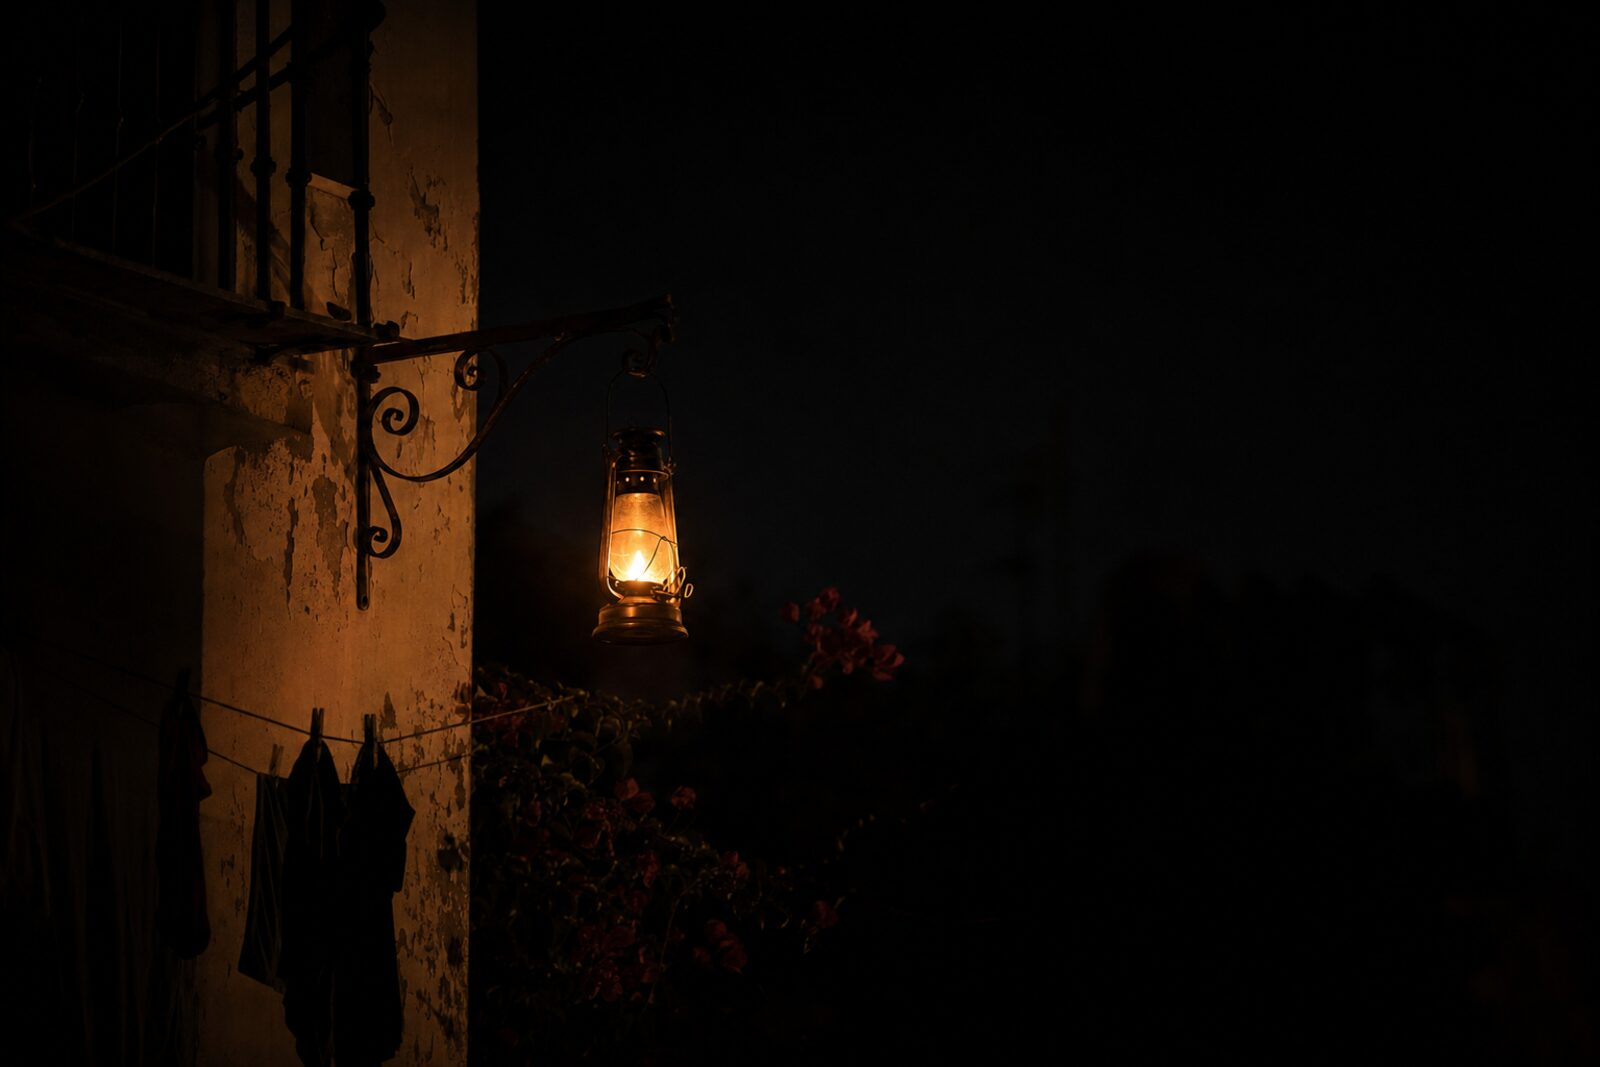
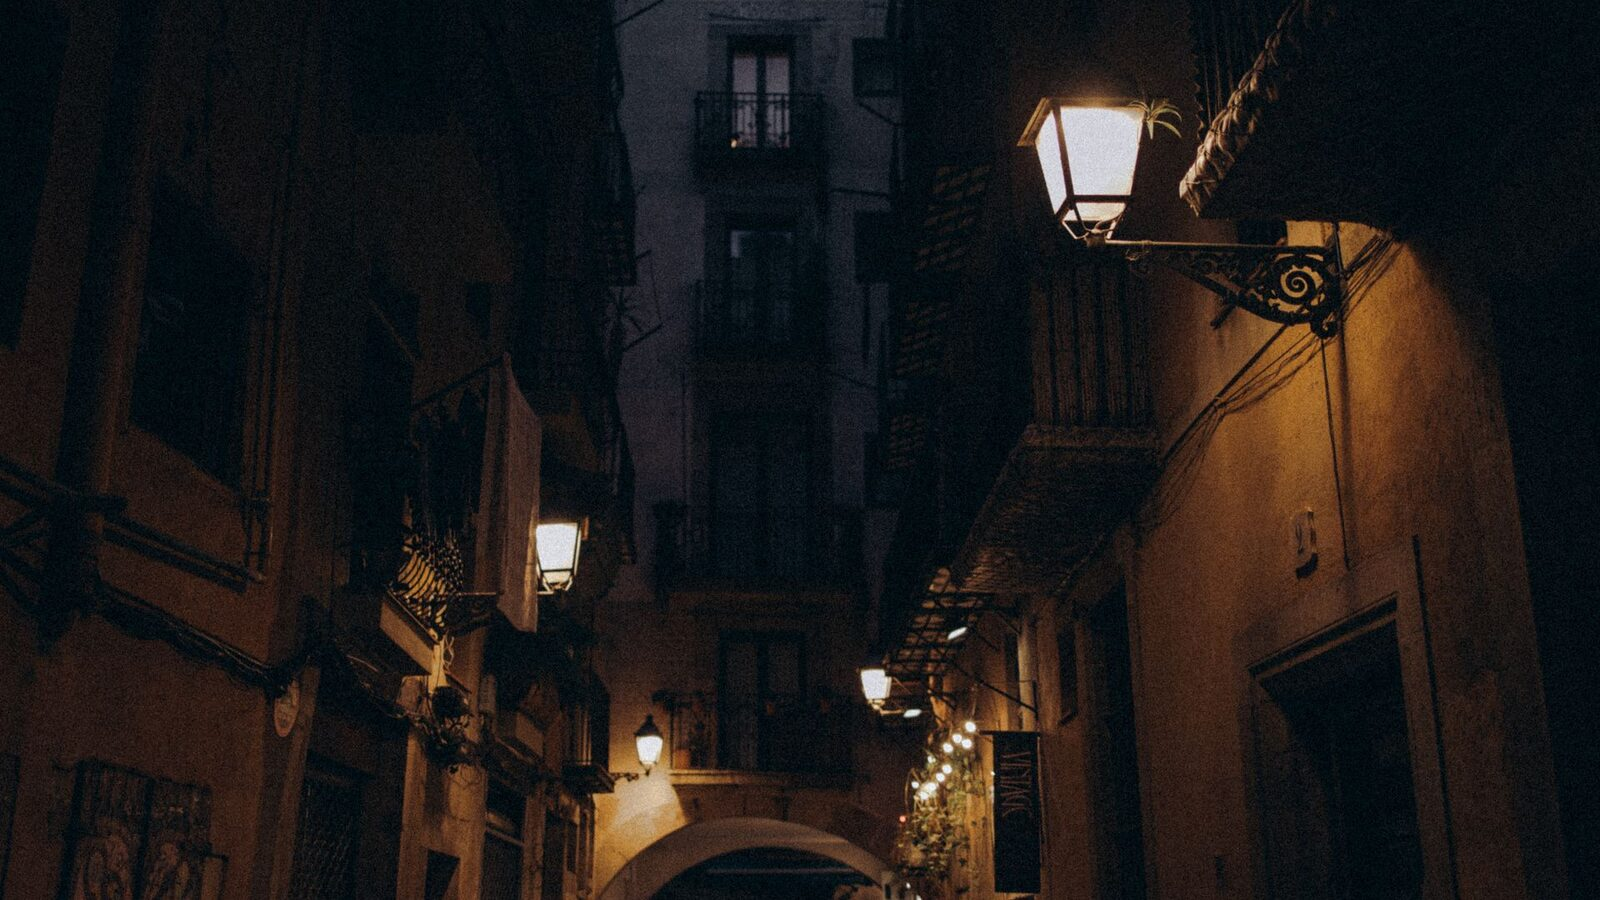
V9: founder letter (Ahmed's story, photo, signature), ember cursor trail, lit-window building footer, real Cairo band photography, mobile clock fix

diff --git a/index.html b/index.html
@@ -29,11 +29,11 @@
 <link rel="preload" as="style" href="https://api.fontshare.com/v2/css?f[]=boska@700,500&f[]=satoshi@300,400,500,700&display=swap" />
 <link rel="preload" as="style" href="https://fonts.googleapis.com/css2?family=JetBrains+Mono:wght@400;500&display=swap" />
 <link href="https://api.fontshare.com/v2/css?f[]=boska@700,500&f[]=satoshi@300,400,500,700&display=swap" rel="stylesheet" />
-<link href="https://fonts.googleapis.com/css2?family=JetBrains+Mono:wght@400;500&display=swap" rel="stylesheet" />
-<link rel="stylesheet" href="css/style.css?v=12" />
-<link rel="stylesheet" href="css/console.css?v=12" />
+<link href="https://fonts.googleapis.com/css2?family=JetBrains+Mono:wght@400;500&family=Caveat:wght@600&display=swap" rel="stylesheet" />
+<link rel="stylesheet" href="css/style.css?v=14" />
+<link rel="stylesheet" href="css/console.css?v=14" />
 <link rel="stylesheet" href="css/media.css?v=12" />
-<link rel="stylesheet" href="css/day.css?v=12" />
+<link rel="stylesheet" href="css/day.css?v=14" />
 <link rel="stylesheet" href="css/hero.css?v=13" />
 <script>
   if (!window.matchMedia('(prefers-reduced-motion: reduce)').matches) {
@@ -553,6 +553,43 @@
   </div>
 </section>
 
+<!-- ══════════ THE STORY · A NOTE FROM THE FOUNDER ══════════ -->
+<section class="letter-ch day" id="letter" data-label="The Story">
+  <div class="wrap">
+    <p class="chapter-no reveal">The Story</p>
+    <div class="letter reveal" role="group" aria-label="A note from Ahmed, founder of SERAYAE">
+      <div class="letter-bar">
+        <span class="letter-lights" aria-hidden="true"><i></i><i></i><i></i></span>
+        <span class="mono letter-name">a note from ahmed</span>
+      </div>
+      <div class="letter-body">
+        <p>I thought the problem was alerts.</p>
+        <p>every app promised the same thing.</p>
+        <p class="letter-list">send an alert.<br />share your location.<br />notify your contacts.</p>
+        <p>and technically, they worked.</p>
+        <p class="letter-list">the notification arrived.<br />the message was delivered.<br />the location was shared.</p>
+        <p>everything worked.</p>
+        <p>except the part that mattered.</p>
+        <p><mark>nobody knew if someone was actually coming.</mark></p>
+        <p>and once you notice that,<br />you start seeing it everywhere.</p>
+        <p class="letter-list">we built infrastructure for communication.<br />we built infrastructure for transportation.<br />we built infrastructure for payments.</p>
+        <p><strong>but we never built infrastructure for response.</strong></p>
+        <p>so we started building it.</p>
+        <p>SERAYAE is our attempt to answer a simple question:</p>
+        <p class="letter-q">when someone needs help,<br />can another human reliably show up?</p>
+        <p>we think that question matters more than any feature we could list here.</p>
+        <p>it&rsquo;s early.</p>
+        <p>but we're working on it.</p>
+      </div>
+      <div class="letter-sig">
+        <img class="letter-face" src="media/photos/founder.jpg" width="80" height="80" loading="lazy" decoding="async" alt="Ahmed, founder of SERAYAE" />
+        <span class="letter-who">Ahmed<br /><em>Founder, SERAYAE</em></span>
+        <span class="letter-hand" aria-hidden="true">— Ahmed</span>
+      </div>
+    </div>
+  </div>
+</section>
+
 <!-- ══════════ SIGNALS FROM THE WAITLIST ══════════ -->
 <section class="voices" id="voices" data-chapter="6" data-label="Signals from the waitlist">
   <div class="wrap">
@@ -672,18 +709,11 @@
     </span>
   </nav>
 
-  <!-- dot-matrix mosaic, built from the same ember/ivory atom as the network -->
+  <!-- the building: SERAYAE spelled in lit windows — every window is someone -->
   <div class="mosaic-row">
-    <span class="mosaic-lantern lit" aria-hidden="true">
-      <svg viewBox="0 0 32 40">
-        <g stroke="currentColor" stroke-width="1.4" fill="none" stroke-linecap="round">
-          <path d="M16 2v4" /><path d="M10 6h12" /><path d="M11 6 8.5 33h15L21 6" /><path d="M8.5 33h15" /><path d="M13 36h6" />
-        </g>
-        <circle cx="16" cy="21" r="4.4" fill="currentColor" />
-      </svg>
-    </span>
-    <div class="mosaic" id="mosaic" role="img" aria-label="SERAYAE"></div>
+    <div class="mosaic" id="mosaic" role="img" aria-label="SERAYAE spelled in lit apartment windows"></div>
   </div>
+  <p class="mono mosaic-cap" aria-hidden="true">every window is someone.</p>
 </footer>
 
 <!-- ══════════ EASTER-EGG MODALS ══════════ -->
@@ -707,15 +737,16 @@
 <script defer src="https://cdn.jsdelivr.net/npm/gsap@3.12.5/dist/gsap.min.js"></script>
 <script defer src="https://cdn.jsdelivr.net/npm/gsap@3.12.5/dist/ScrollTrigger.min.js"></script>
 <script defer src="js/network.js?v=12"></script>
-<script defer src="js/ops.js?v=12"></script>
+<script defer src="js/ops.js?v=14"></script>
 <script defer src="js/artifacts.js?v=12"></script>
 <script defer src="js/modals.js?v=13"></script>
-<script defer src="js/mosaic.js?v=12"></script>
+<script defer src="js/mosaic.js?v=14"></script>
+<script defer src="js/trail.js?v=14"></script>
 <script defer src="js/film.js?v=12"></script>
 <script defer src="js/clips.js?v=12"></script>
 <script defer src="js/shelf.js?v=13"></script>
 <script defer src="js/photos.js?v=12"></script>
 <script defer src="js/ambient.js?v=12"></script>
-<script defer src="js/main.js?v=12"></script>
+<script defer src="js/main.js?v=14"></script>
 </body>
 </html>

diff --git a/css/style.css b/css/style.css
@@ -906,3 +906,117 @@ html.js .freeze-copy p { opacity: 0; }
   .freeze-line { opacity: 0.8; transform: none; }
   .ember-light { left: 74%; top: 30%; opacity: 0.55; width: 20vmin; height: 20vmin; margin: -10vmin 0 0 -10vmin; }
 }
+
+/* ══════════ THE LETTER — a note from the founder ══════════ */
+.letter-ch {
+  padding: clamp(5rem, 12vh, 9rem) 0 clamp(5rem, 12vh, 9rem);
+}
+.letter {
+  max-width: 40rem;
+  margin: 2.5rem auto 0;
+  background: #fbf9f3;
+  border: 1px solid rgba(29, 36, 46, 0.12);
+  border-radius: 6px;
+  box-shadow:
+    0 1px 2px rgba(29, 36, 46, 0.06),
+    0 24px 48px -24px rgba(29, 36, 46, 0.35);
+  transform: rotate(-0.35deg);
+}
+.letter-bar {
+  display: flex;
+  align-items: center;
+  gap: 0.75rem;
+  padding: 0.6rem 0.9rem;
+  border-bottom: 1px solid rgba(29, 36, 46, 0.1);
+}
+.letter-lights { display: inline-flex; gap: 5px; }
+.letter-lights i {
+  width: 9px; height: 9px; border-radius: 50%;
+  background: rgba(29, 36, 46, 0.14);
+}
+.letter-lights i:first-child { background: rgba(189, 49, 3, 0.55); }
+.letter-name {
+  font-size: 0.625rem;
+  letter-spacing: 0.14em;
+  text-transform: uppercase;
+  color: rgba(29, 36, 46, 0.55);
+}
+.letter-body {
+  padding: clamp(1.5rem, 4vw, 2.75rem) clamp(1.25rem, 5vw, 3rem) 0.5rem;
+}
+.letter-body p {
+  margin: 0 0 1.15em;
+  font-size: clamp(1rem, 1.5vw, 1.125rem);
+  line-height: 1.65;
+  color: rgba(29, 36, 46, 0.88);
+}
+.letter-body .letter-list { color: rgba(29, 36, 46, 0.62); }
+.letter-body mark {
+  background: rgba(189, 49, 3, 0.13);
+  color: #8c2402;
+  padding: 0.1em 0.25em;
+  border-radius: 2px;
+}
+.letter-body strong { font-weight: 700; color: var(--ink, #1d242e); }
+.letter-body .letter-q {
+  font-family: var(--font-display);
+  font-size: clamp(1.35rem, 2.6vw, 1.75rem);
+  line-height: 1.35;
+  color: var(--ink, #1d242e);
+}
+.letter-sig {
+  display: flex;
+  align-items: center;
+  gap: 0.9rem;
+  padding: 1.1rem clamp(1.25rem, 5vw, 3rem) clamp(1.5rem, 4vw, 2.25rem);
+}
+.letter-face {
+  width: 44px; height: 44px;
+  border-radius: 50%;
+  object-fit: cover;
+  border: 1px solid rgba(29, 36, 46, 0.15);
+}
+.letter-who {
+  font-size: 0.8125rem;
+  font-weight: 700;
+  line-height: 1.35;
+  color: var(--ink, #1d242e);
+}
+.letter-who em {
+  font-style: normal;
+  font-weight: 400;
+  color: rgba(29, 36, 46, 0.55);
+}
+.letter-hand {
+  margin-left: auto;
+  font-family: 'Caveat', cursive;
+  font-weight: 600;
+  font-size: clamp(1.75rem, 3.5vw, 2.25rem);
+  color: #a82b03;
+  transform: rotate(-4deg);
+}
+@media (max-width: 560px) {
+  .letter { transform: none; }
+  .letter-hand { font-size: 1.6rem; }
+}
+
+/* ══════════ EMBER CURSOR TRAIL — the light follows you ══════════ */
+.trail-ember {
+  position: fixed;
+  left: 0; top: 0;
+  width: 7px; height: 7px;
+  border-radius: 50%;
+  pointer-events: none;
+  z-index: 80;
+  background: radial-gradient(circle at 35% 35%, #ffd9b8 0%, #ff9257 45%, #bd3103 100%);
+  box-shadow: 0 0 10px 2px rgba(255, 146, 87, 0.35);
+  opacity: 0;
+  animation: trail-fade 0.9s cubic-bezier(0.22, 1, 0.36, 1) forwards;
+}
+@keyframes trail-fade {
+  0%   { opacity: 0.9; transform: translate(-50%, -50%) scale(0.55); }
+  100% { opacity: 0;   transform: translate(-50%, -62%) scale(1); }
+}
+@media (prefers-reduced-motion: reduce) {
+  .trail-ember { display: none; }
+}

diff --git a/css/console.css b/css/console.css
@@ -499,37 +499,60 @@ html:not(.js) .nobody { opacity: 1; }
 .voice-alt .lights .em { background: var(--ember); opacity: 0.8; }
 .voices .note { max-width: 46ch; }
 
-/* ══════════ FOOTER MOSAIC ══════════ */
+/* ══════════ FOOTER — THE BUILDING ══════════
+   SERAYAE spelled in lit windows on a night facade. Hover an unlit
+   window and the light comes on: someone is home. */
 .mosaic-row {
   display: flex;
-  align-items: center;
   justify-content: center;
-  gap: clamp(1rem, 4vw, 3rem);
   margin: clamp(2.5rem, 7vh, 4.5rem) auto 0;
-  max-width: 1180px;
 }
-.mosaic-lantern { color: var(--ivory-45); flex: none; }
-.mosaic-lantern svg { width: 24px; height: auto; }
-.mosaic-lantern.lit { color: var(--ember-soft); opacity: 1; filter: drop-shadow(0 0 8px rgba(217, 88, 31, 0.7)); }
 .mosaic {
   display: grid;
-  gap: clamp(2px, 0.45vw, 5px);
+  gap: clamp(3px, 0.55vw, 7px);
   grid-auto-flow: column;
   grid-template-rows: repeat(7, auto);
+  padding: clamp(10px, 1.4vw, 18px);
+  background: #14100c;
+  border: 1px solid rgba(245, 242, 236, 0.08);
+  border-radius: 4px;
 }
 .mosaic i {
   display: block;
-  width: clamp(2px, 0.42vw, 5px);
-  height: clamp(2px, 0.42vw, 5px);
-  border-radius: 50%;
-  background: rgba(245, 242, 236, 0.16);
+  width: clamp(7px, 1.05vw, 15px);
+  height: clamp(9px, 1.3vw, 19px);
+  border-radius: 1.5px;
+  background: rgba(245, 242, 236, 0.05);
+  box-shadow: inset 0 0 0 1px rgba(245, 242, 236, 0.07);
+  transition: background 0.35s var(--ease), box-shadow 0.35s var(--ease);
 }
-.mosaic i.on { background: var(--ivory-70); }
-html.js .mosaic i.on { animation: mosaicWave 6s var(--ease) infinite; }
-@keyframes mosaicWave {
-  0%, 72%, 100% { background: rgba(245, 242, 236, 0.55); box-shadow: none; }
-  18% { background: var(--ember-hi); box-shadow: 0 0 8px 2px rgba(217, 88, 31, 0.65); }
-  40% { background: rgba(245, 242, 236, 0.85); box-shadow: none; }
+/* hover any dark window: the light comes on */
+.mosaic i:hover {
+  background: linear-gradient(180deg, #ffd9b8 0%, #e8801f 85%);
+  box-shadow: 0 0 10px 1px rgba(255, 146, 87, 0.4);
+  transition-duration: 0.08s;
+}
+.mosaic i.on {
+  background: linear-gradient(180deg, #ffe4c8 0%, #ee9a3e 70%, #d9581f 100%);
+  box-shadow: 0 0 9px 1px rgba(255, 146, 87, 0.28);
+}
+html.js .mosaic i.on { opacity: 0; }
+html.js .mosaic.go i.on { animation: windowOn 0.5s var(--ease) forwards; }
+@keyframes windowOn {
+  0% { opacity: 0; }
+  55% { opacity: 1; box-shadow: 0 0 14px 3px rgba(255, 146, 87, 0.5); }
+  100% { opacity: 1; }
+}
+.mosaic-cap {
+  margin: 0.9rem 0 0;
+  text-align: center;
+  font-size: 0.5625rem;
+  letter-spacing: 0.18em;
+  text-transform: uppercase;
+  color: var(--ivory-32);
+}
+@media (prefers-reduced-motion: reduce) {
+  html.js .mosaic i.on, html.js .mosaic.go i.on { opacity: 1; animation: none; }
 }
 
 /* ══════════ MODALS ══════════ */

diff --git a/js/trail.js b/js/trail.js
@@ -1,0 +1,40 @@
+/* ═══ Ember cursor trail ═══
+   The brand object follows the visitor: small embers spawn along the
+   cursor path and drift out. Event-driven only — no rAF loop, no scroll
+   work. Elements remove themselves on animationend. */
+
+(function () {
+  if (window.matchMedia('(prefers-reduced-motion: reduce)').matches) return;
+  if (!window.matchMedia('(pointer: fine)').matches) return;
+  if (window.innerWidth < 900) return;
+
+  var lastX = -100, lastY = -100;
+  var live = 0;
+  var MIN_DIST = 88;     /* px of cursor travel between embers */
+  var MAX_LIVE = 18;     /* hard cap on simultaneous sparks */
+
+  document.addEventListener('mousemove', function (e) {
+    var dx = e.clientX - lastX;
+    var dy = e.clientY - lastY;
+    if (dx * dx + dy * dy < MIN_DIST * MIN_DIST) return;
+    if (live >= MAX_LIVE) return;
+    lastX = e.clientX;
+    lastY = e.clientY;
+
+    var s = document.createElement('i');
+    s.className = 'trail-ember';
+    /* small random offset so a straight swipe doesn't read as a ruler */
+    var jx = (Math.random() - 0.5) * 14;
+    var jy = (Math.random() - 0.5) * 14;
+    s.style.transform = 'translate(' + (e.clientX + jx) + 'px,' + (e.clientY + jy) + 'px)';
+    s.style.left = (e.clientX + jx) + 'px';
+    s.style.top = (e.clientY + jy) + 'px';
+    s.style.transform = '';
+    live++;
+    s.addEventListener('animationend', function () {
+      live--;
+      if (s.parentNode) s.parentNode.removeChild(s);
+    });
+    document.body.appendChild(s);
+  }, { passive: true });
+})();

diff --git a/js/mosaic.js b/js/mosaic.js
@@ -34,11 +34,24 @@
       const dot = document.createElement('i');
       if (col && col[r]) {
         dot.className = 'on';
-        dot.style.animationDelay = (ci * 0.055).toFixed(3) + 's';
+        dot.style.animationDelay = (ci * 0.032 + Math.random() * 0.14).toFixed(3) + 's';
       }
       frag.appendChild(dot);
     }
   });
   host.style.gridTemplateRows = 'repeat(' + ROWS + ', auto)';
   host.appendChild(frag);
+
+  /* light the building only when it scrolls into view */
+  if ('IntersectionObserver' in window) {
+    var io = new IntersectionObserver(function (entries) {
+      if (entries[0].isIntersecting) {
+        host.classList.add('go');
+        io.disconnect();
+      }
+    }, { threshold: 0.25 });
+    io.observe(host);
+  } else {
+    host.classList.add('go');
+  }
 })();

diff --git a/js/ops.js b/js/ops.js
@@ -28,9 +28,15 @@
     fmt = makeFmt(CITIES[0][1]);
     /* rotate cities every 7s — SERAYAE is global from day one */
     window.setInterval(function () {
+      /* if the city label is hidden (mobile), a silently changing timezone
+         would just look like a broken clock — stay on Cairo there */
+      if (!clockLabel || clockLabel.offsetParent === null) {
+        if (cityIdx !== 0) { cityIdx = 0; fmt = makeFmt(CITIES[0][1]); }
+        return;
+      }
       cityIdx = (cityIdx + 1) % CITIES.length;
       fmt = makeFmt(CITIES[cityIdx][1]);
-      if (clockLabel) clockLabel.textContent = CITIES[cityIdx][0];
+      clockLabel.textContent = CITIES[cityIdx][0];
     }, 7000);
 
     function pad(n) { return n < 10 ? '0' + n : '' + n; }

diff --git a/js/main.js b/js/main.js
@@ -234,6 +234,7 @@
     ['#ch4 .reveal', 0.1],
     ['#ch5 .reveal', 0.08],
     ['#ch6 .reveal', 0.07],
+    ['#letter .reveal', 0.12],
     ['#voices .reveal', 0.09],
     ['#ch7 .reveal', 0.16],
     ['#waitlist .display, #waitlist .wl-form, #waitlist .wl-privacy', 0.12]
